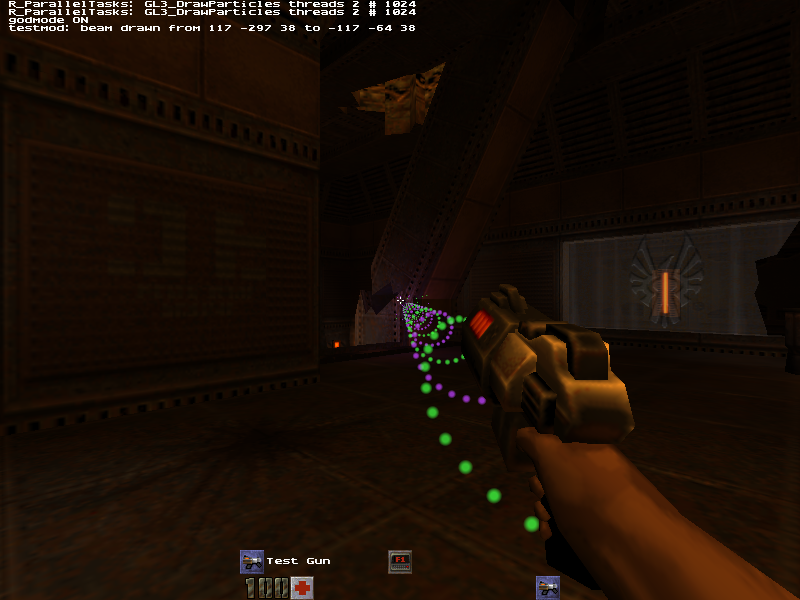
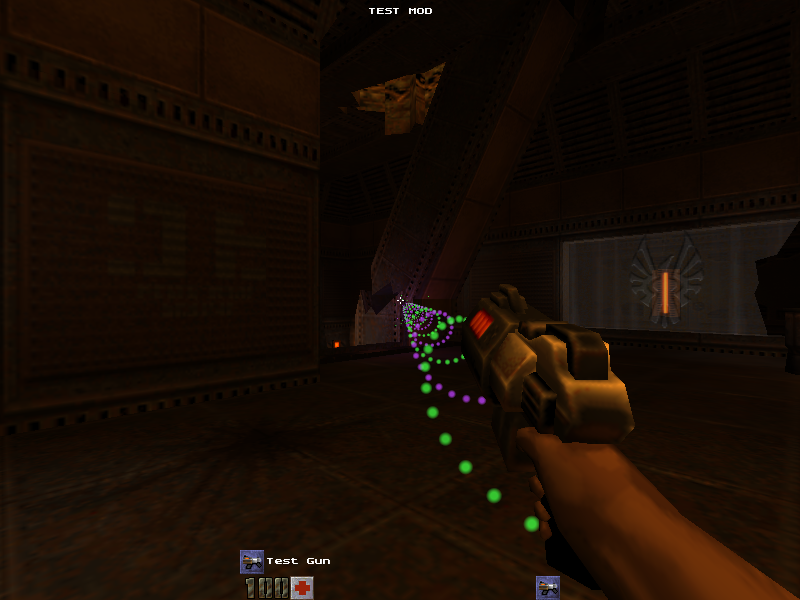
Test mod changes a HUD element and player movement; mod check compares with the stock game

Changed region(s): [[0.0, 0.0, 0.5312, 0.06], [0.4688, 0.9, 0.5312, 0.96]]

diff --git a/docs/index.html b/docs/index.html
@@ -124,8 +124,9 @@
       </div>
       <div class="feature">
         <h3>Mods without engine changes</h3>
-        <p>The test mod in <code>mods/testmod</code> adds the Test Gun, a new weapon with its own effect, by
-          changing game code only. The engine binary stays the same.</p>
+        <p>The test mod in <code>mods/testmod</code> adds the Test Gun, a new weapon with its own effect, puts its
+          own label on the HUD and makes you jump twice as high, all by changing game code only. The engine binary
+          stays the same.</p>
       </div>
     </div>
     <div class="gallery" style="margin-top:16px">

diff --git a/docs/roadmap.html b/docs/roadmap.html
@@ -122,7 +122,7 @@
       <h3>M2 is done when</h3>
       <ul class="tasks">
         <li class="done">A test mod adds a weapon with a new visual effect, with no engine changes (the Test Gun)</li>
-        <li class="part">The same mod changes a HUD element and player movement</li>
+        <li class="done">The same mod changes a HUD element and player movement</li>
         <li>Two mods load together</li>
         <li class="part">The stock game runs entirely through the client module</li>
         <li>A monster paths around an obstacle to reach the player</li>

diff --git a/tests/mod/mod_check.py b/tests/mod/mod_check.py
@@ -1,18 +1,24 @@
 #!/usr/bin/env python3
-"""Test mod check for OpenTech2 (M2: a mod adds a weapon with a new effect,
-with no engine changes).
+"""Test mod check for OpenTech2 (M2: a mod, with no engine changes, adds a
+weapon with a new visual effect, changes a HUD element and alters player
+movement).
 
 Builds mods/testmod (copy of the source tree + testmod.patch + the mod's own
-files) into build/mod-check/, checks the engine sources were not touched by
-the mod, then plays with "+set game testmod": gives the Test Gun, fires it at
-a soldier and checks that
-  - the mod's weapon fired (the soldier took damage),
-  - its effect, temp entity 201, was drawn by the mod's client code,
-  - a screenshot shows the beam (saved to docs/screenshots/).
+files) into build/mod-check/, checks the mod only touches game code (the
+shared movement code in src/common/shared is compiled into the game library
+as well; the engine binary used below is the stock one, not rebuilt), then
+plays base1 twice with the same stock engine, once with the stock game and
+once with "+set game testmod", and compares:
+  - weapon and effect: the Test Gun fires and its beam (temp entity 201) is
+    drawn by the mod's client code (mod run only),
+  - movement: the mod's jump goes about twice as high, and the client's
+    prediction stays with it (the client predicts with the mod's movement),
+  - HUD: the mod's "TEST MOD" label is on screen, the stock game has none.
+A screenshot of the Test Gun goes to docs/screenshots/.
 
 Usage:
   mod_check.py
-Needs cmake and a C/C++ compiler. A real GL3 window for a few seconds.
+Needs cmake and a C/C++ compiler. A real GL3 window for a few seconds per run.
 """
 
 import os
@@ -30,6 +36,9 @@ OUTPUT_DIR = REPO_DIR / "build" / "mod-check"
 DOC_SHOT = REPO_DIR / "docs" / "screenshots" / "m2_testmod_testgun.png"
 DATA_DIR = Path.home() / ".local/share/Steam/steamapps/common/Quake 2"
 ENGINE_PARTS = ("src/client/", "src/server/", "src/common/", "src/backends/")
+SHARED_GAME_CODE = ("src/common/shared/",)  # compiled into the game library too
+JUMP_AT_MS = 5000
+SAMPLES = range(JUMP_AT_MS - 200, JUMP_AT_MS + 1200, 50)  # playerinfo every 50 ms around the jump
 
 
 def build_mod():
@@ -50,6 +59,69 @@ def build_mod():
     return next(build_dir.rglob("game.so")), patched
 
 
+def play(name, mod_library=None):
+    """base1 with the stock engine; returns (log, screenshot path or None)."""
+    game = "testmod" if mod_library else "baseq2"
+    with tempfile.TemporaryDirectory(prefix="opentech2-mod-") as home:
+        game_dir = Path(home) / ".opentech2" / game
+        game_dir.mkdir(parents=True)
+        if mod_library:
+            shutil.copy(mod_library, game_dir / "game.so")
+        lines = ["map base1", 'delay 3000 "god"', 'delay 3050 "notarget"', 'delay 3100 "clear"']
+        # the jump, with the player's height sampled around it
+        lines += [f'delay {JUMP_AT_MS} "+moveup"', f'delay {JUMP_AT_MS + 100} "-moveup"']
+        lines += [f'delay {when} "cmd playerinfo"' for when in SAMPLES]
+        if mod_library:
+            lines += ['delay 7000 "give test gun"', 'delay 7100 "use test gun"', 'delay 8300 "+attack"',
+                      'delay 8400 "-attack"', 'delay 8480 "screenshot png"', 'delay 9300 "+attack"',
+                      'delay 9400 "-attack"', 'delay 10300 "quit"']
+        else:
+            lines += ['delay 8480 "screenshot png"', 'delay 9000 "quit"']
+        (game_dir / "m.cfg").write_text("\n".join(lines) + "\n")
+        environment = dict(os.environ, HOME=home, SDL_AUDIODRIVER="dummy")
+        log_path = OUTPUT_DIR / f"{name}.log"
+        arguments = ["stdbuf", "-oL", str(CLIENT_BINARY), "-datadir", str(DATA_DIR), "+set", "game", game,
+                     "+set", "vid_renderer", "gl3", "+set", "vid_fullscreen", "0", "+set", "r_mode", "4",
+                     "+set", "s_initsound", "0", "+set", "cheats", "1", "+set", "cl_showmiss", "1",
+                     "+set", "developer", "1", "+set", "con_notifytime", "0", "+exec", "m.cfg"]
+        with open(log_path, "w") as log_file:
+            subprocess.run(arguments, env=environment, stdout=log_file, stderr=subprocess.STDOUT,
+                           timeout=90, check=False)
+        shots = sorted((game_dir / "scrnshot").glob("*.png")) if (game_dir / "scrnshot").exists() else []
+        shot = None
+        if shots:
+            shot = OUTPUT_DIR / f"{name}.png"
+            shutil.copy(shots[0], shot)
+    return log_path.read_text(errors="replace"), shot
+
+
+def jump_height(log):
+    heights = [float(z) for z in re.findall(r"playerinfo time \S+ health \S+ ammo \S+ origin \S+ \S+ (\S+)", log)]
+    return (max(heights) - heights[0]) if len(heights) > 2 else 0.0
+
+
+def misses_after_spawn(log):
+    """Prediction misses after the first two seconds (a spawn always has one)."""
+    return [abs(int(value)) for frame, value in re.findall(r"prediction miss on (\d+): (-?\d+)", log)
+            if int(frame) > 120]
+
+
+def label_pixels(shot):
+    """Bright text pixels where the mod's "TEST MOD" label goes (top centre)."""
+    if not shot:
+        return 0
+    from PIL import Image  # only needed here
+    image = Image.open(shot).convert("RGB")
+    width, height = image.size
+    left, top = width // 2 - 60, 4
+    count = 0
+    for x in range(left, left + 120):
+        for y in range(top, top + 18):
+            if sum(image.getpixel((x, y))) > 450:
+                count += 1
+    return count
+
+
 def main():
     if OUTPUT_DIR.exists():
         shutil.rmtree(OUTPUT_DIR)
@@ -62,50 +134,42 @@ def main():
 
     library, patched = build_mod()
     mod_files = [str(p.relative_to(MOD_DIR)) for p in (MOD_DIR / "src").rglob("*") if p.is_file()]
-    touched = [f for f in patched + mod_files if f.startswith(ENGINE_PARTS)]
-    report(not touched, f"no engine sources changed (mod touches: {', '.join(sorted(set(patched + mod_files)))})")
+    touched = sorted(set(patched + mod_files))
+    engine_touched = [f for f in touched if f.startswith(ENGINE_PARTS) and not f.startswith(SHARED_GAME_CODE)]
+    report(not engine_touched, f"no engine-only sources changed (mod touches: {', '.join(touched)})")
 
-    with tempfile.TemporaryDirectory(prefix="opentech2-mod-") as home:
-        game_dir = Path(home) / ".opentech2" / "testmod"
-        game_dir.mkdir(parents=True)
-        shutil.copy(library, game_dir / "game.so")
-        # base1 start: the first soldier stands ahead; aim at him and fire twice
-        (game_dir / "m.cfg").write_text("\n".join([
-            "map base1",
-            'delay 3000 "god"',
-            'delay 3100 "give test gun"',
-            'delay 3200 "use test gun"',
-            'delay 4500 "+attack"',
-            'delay 4600 "-attack"',
-            'delay 4680 "screenshot png"',
-            'delay 5500 "+attack"',
-            'delay 5600 "-attack"',
-            'delay 6500 "quit"',
-        ]) + "\n")
-        environment = dict(os.environ, HOME=home, SDL_AUDIODRIVER="dummy")
-        log_path = OUTPUT_DIR / "client.log"
-        with open(log_path, "w") as log_file:
-            subprocess.run(["stdbuf", "-oL", str(CLIENT_BINARY), "-datadir", str(DATA_DIR),
-                            "+set", "game", "testmod", "+set", "vid_renderer", "gl3", "+set", "vid_fullscreen", "0",
-                            "+set", "r_mode", "4", "+set", "s_initsound", "0", "+set", "cheats", "1",
-                            "+set", "developer", "1", "+exec", "m.cfg"],
-                           env=environment, stdout=log_file, stderr=subprocess.STDOUT, timeout=60, check=False)
-        shots = sorted((game_dir / "scrnshot").glob("*.png")) if (game_dir / "scrnshot").exists() else []
-        if shots:
-            shutil.copy(shots[0], OUTPUT_DIR / "testgun.png")
-            shutil.copy(shots[0], DOC_SHOT)
+    stock_log, stock_shot = play("stock")
+    mod_log, mod_shot = play("testmod", library)
 
-    log = log_path.read_text(errors="replace")
-    report(re.search(r"Using '[^']*testmod' for writing", log) is not None, "game folder testmod in use")
-    report("effects from the game library" in log, "the mod's game library draws the effects")
-    beams = re.findall(r"testmod: beam drawn from (\S+ \S+ \S+) to (\S+ \S+ \S+)", log)
+    report(re.search(r"Using '[^']*testmod' for writing", mod_log) is not None, "game folder testmod in use")
+    report("effects from the game library" in mod_log and "player movement from the game library" in mod_log,
+           "the mod's game library draws the effects and runs the client's movement")
+
+    # weapon and effect
+    beams = re.findall(r"testmod: beam drawn from (\S+ \S+ \S+) to (\S+ \S+ \S+)", mod_log)
     report(len(beams) >= 2, f"Test Gun fired, its beam (temp entity 201) drawn by the mod {len(beams)} times")
-    report(bool(shots), "screenshot of the beam" + (f": {DOC_SHOT.relative_to(REPO_DIR)}" if shots else ""))
-    errors = [line for line in log.splitlines() if "ERROR" in line or "bad effect type" in line]
+    if mod_shot:
+        DOC_SHOT.parent.mkdir(parents=True, exist_ok=True)
+        shutil.copy(mod_shot, DOC_SHOT)
+
+    # movement
+    stock_jump, mod_jump = jump_height(stock_log), jump_height(mod_log)
+    report(stock_jump > 30 and mod_jump > stock_jump * 1.7,
+           f"movement: jump height {stock_jump:.0f} units stock, {mod_jump:.0f} with the mod")
+    mod_misses = misses_after_spawn(mod_log)
+    report(sum(mod_misses) / 8.0 < 8.0,
+           f"prediction follows the mod's jump: {len(mod_misses)} misses, {sum(mod_misses) / 8.0:.1f} units in total")
+
+    # HUD
+    stock_label, mod_label = label_pixels(stock_shot), label_pixels(mod_shot)
+    report(mod_label > 40 and stock_label < 5,
+           f"HUD: \"TEST MOD\" label on screen ({mod_label} label pixels with the mod, {stock_label} stock)")
+
+    errors = [line for line in (stock_log + mod_log).splitlines() if "ERROR" in line or "bad effect type" in line]
     report(not errors, "no errors" + (f" ({errors[0].strip()})" if errors else ""))
 
     passed = all(results)
-    print(f"\nMod check {'passed' if passed else 'FAILED'}. Log and screenshot in {OUTPUT_DIR}")
+    print(f"\nMod check {'passed' if passed else 'FAILED'}. Logs and screenshots in {OUTPUT_DIR}")
     return 0 if passed else 1
 
 

diff --git a/mods/testmod/README.md b/mods/testmod/README.md
@@ -1,7 +1,8 @@
 # OpenTech2 test mod
 
 A small mod that proves the engine can be modded without changing it: it
-adds a new weapon, the **Test Gun**, with its own visual effect.
+adds a new weapon, the **Test Gun**, with its own visual effect, puts a
+"TEST MOD" label on the HUD, and makes the player jump about twice as high.
 
 - `src/game/testmod/testmod_weapon.c`: the weapon (server side). Hitscan, no
   ammo, 20 damage, blaster models. Each shot sends a temporary entity type the
@@ -11,10 +12,14 @@ adds a new weapon, the **Test Gun**, with its own visual effect.
   from the gun to the hit point, with a light and a burst at the impact.
 - `testmod.patch`: the few changes to stock game files: the item entry in
   `g_items.c`, the mod's effects hooked into the game library's temp entity
-  code, and the two files added to the build.
+  code, the HUD label in the status bar layout (`g_spawn.c`), a higher jump in
+  the movement code (`src/common/shared/pmove.c`, which the game library
+  compiles its own copy of; the client predicts with it, so the jump stays
+  smooth), and the two new files added to the build.
 
-Nothing under `src/client`, `src/server`, `src/common` or the renderers is
-changed: the engine binary stays the same.
+Nothing under `src/client`, `src/server` or the renderers is changed, and of
+`src/common` only the shared movement code the game library compiles: the
+engine binary stays the same.
 
 ## Build and play
 

diff --git a/CHANGES.md b/CHANGES.md
@@ -4,6 +4,7 @@ Changes made on top of Yamagi Quake II Remaster. Upstream history (Yamagi Quake 
 
 ## Unreleased
 
+- The test mod also changes a HUD element (a "TEST MOD" label through the status bar layout) and player movement (jump speed 400 instead of 270, about twice as high, with prediction following it). `tests/mod/mod_check.py` compares it with the stock game: jump height, prediction misses and the label on screen.
 - Code review fixes:
   - game libraries built against the old headers (mission packs, third-party mods) that call the engine's player movement get the server's air acceleration, not a value read past their struct;
   - `cl_showspeed` works again with the game library's movement (it read the engine's unused copy);
